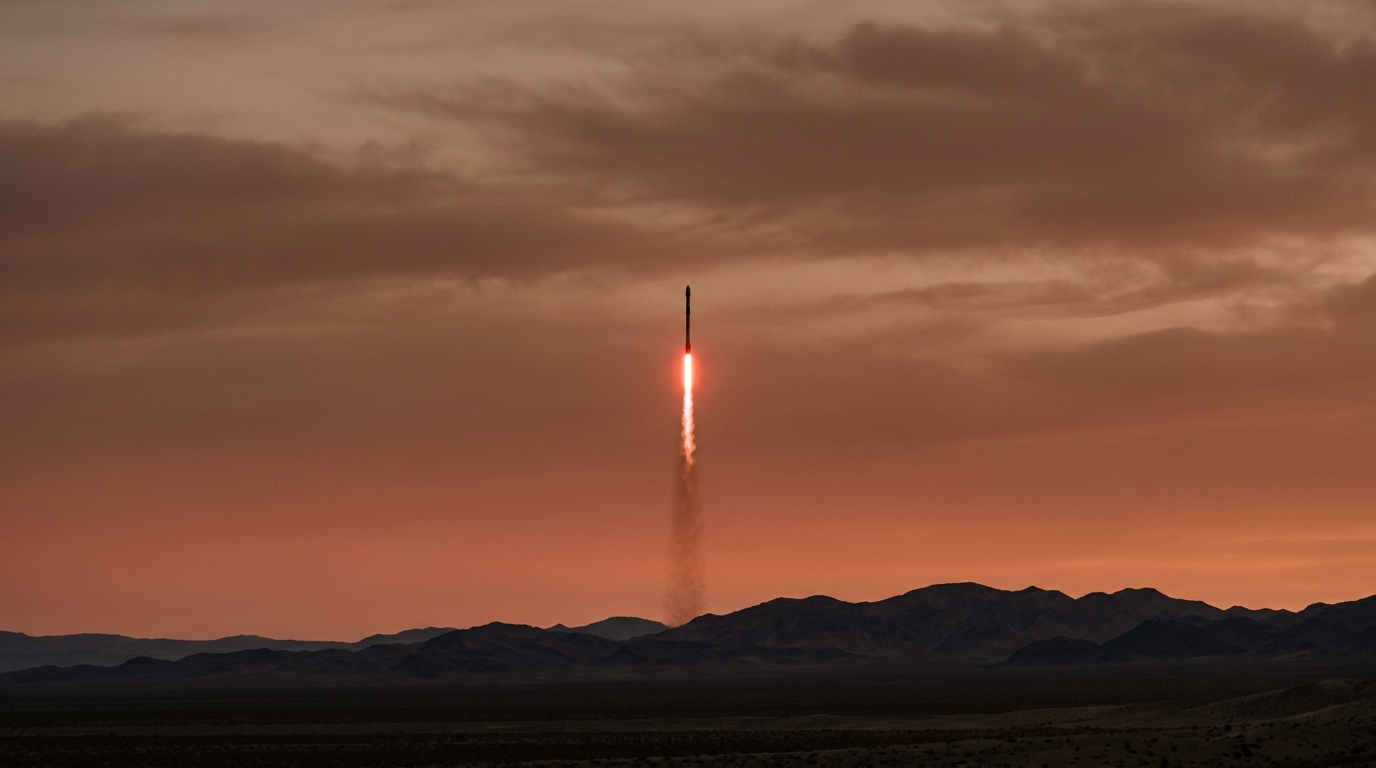
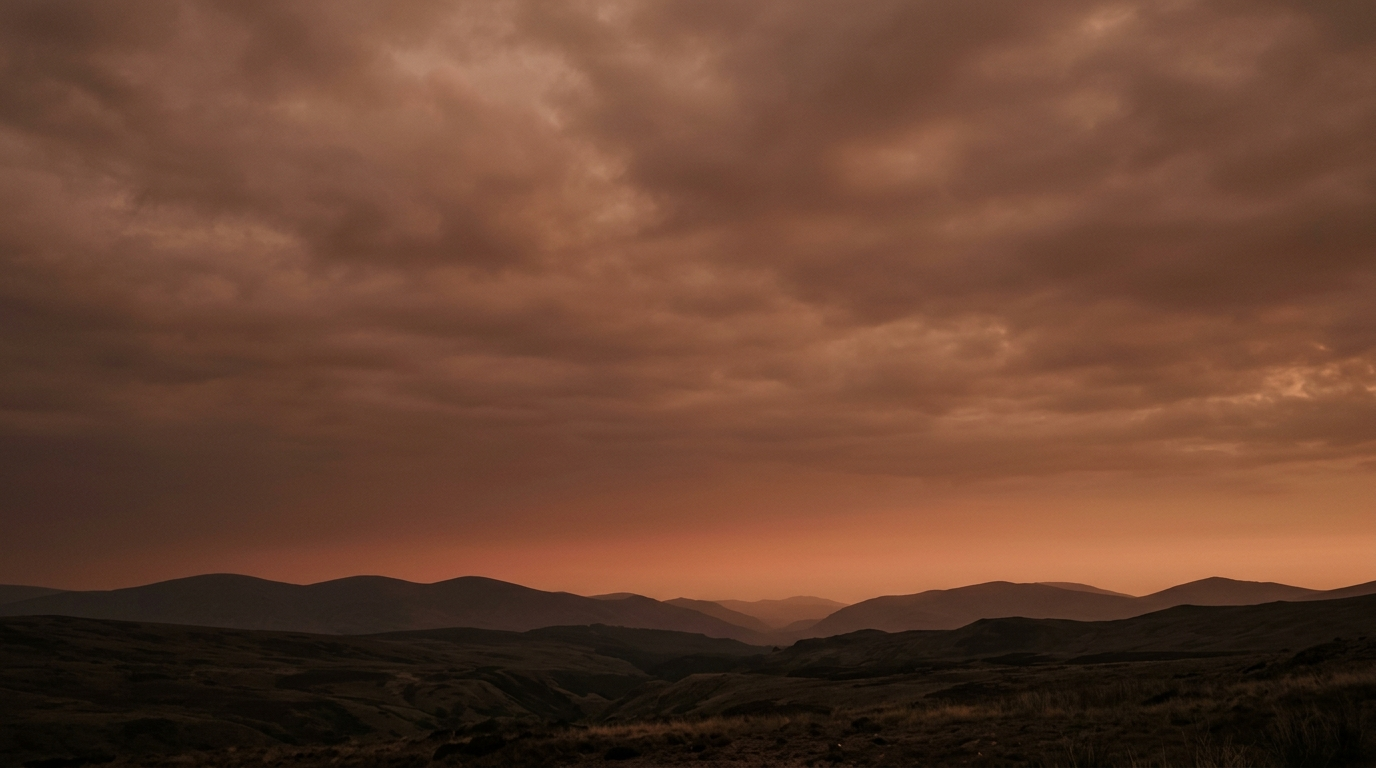
Replace background with clean empty dusk landscape and animate vector rocket on scroll

diff --git a/templates/landing.html b/templates/landing.html
@@ -21,7 +21,7 @@
     .hero-overlay-dark {
         position: absolute;
         inset: 0;
-        background: radial-gradient(circle at 50% 50%, rgba(0,0,0,0.1) 0%, rgba(18,16,16,0.65) 100%);
+        background: radial-gradient(circle at 50% 50%, rgba(0,0,0,0) 0%, rgba(18,16,16,0.55) 100%);
         z-index: 1;
         pointer-events: none;
     }
@@ -31,84 +31,11 @@
         bottom: 0;
         left: 0;
         right: 0;
-        height: 35vh;
-        background: linear-gradient(to top, rgba(18, 16, 16, 1) 0%, rgba(200, 50, 20, 0.35) 50%, rgba(18, 16, 16, 0) 100%);
+        height: 30vh;
+        background: linear-gradient(to top, rgba(18, 16, 16, 0.95) 0%, rgba(200, 50, 20, 0.3) 50%, rgba(18, 16, 16, 0) 100%);
         z-index: 2;
         pointer-events: none;
     }
-
-    /* SCENE LAYERS */
-    .scene-viewport {
-        position: absolute;
-        inset: 0;
-        z-index: 5;
-        display: flex;
-        flex-direction: column;
-        align-items: center;
-        justify-content: flex-end;
-    }
-
-    /* ROCKET ASSEMBLY */
-    .rocket-assembly {
-        position: absolute;
-        bottom: 70px;
-        left: 50%;
-        transform: translateX(-50%);
-        display: flex;
-        flex-direction: column;
-        align-items: center;
-        z-index: 10;
-        will-change: transform;
-    }
-
-    .rocket-ship {
-        width: 70px;
-        height: auto;
-        filter: drop-shadow(0 0 12px rgba(255, 85, 0, 0.4));
-        position: relative;
-        z-index: 12;
-    }
-
-    /* EXHAUST FLAME TRAIL */
-    .rocket-flame {
-        width: 24px;
-        height: 180px;
-        background: linear-gradient(to bottom, #FFFFFF 0%, #FFCC00 15%, #FF4500 45%, rgba(255, 69, 0, 0.8) 75%, rgba(255, 69, 0, 0) 100%);
-        border-radius: 50% 50% 20% 20%;
-        transform-origin: top center;
-        transform: scaleY(0);
-        opacity: 0;
-        filter: blur(2px) drop-shadow(0 0 25px #FF4500);
-        margin-top: -8px;
-        z-index: 11;
-        will-change: transform, opacity;
-    }
-
-    /* SMOKE PLUMES */
-    .launch-smoke-container {
-        position: absolute;
-        bottom: 50px;
-        left: 50%;
-        transform: translateX(-50%);
-        width: 300px;
-        height: 100px;
-        pointer-events: none;
-        z-index: 9;
-    }
-
-    .smoke-puff {
-        position: absolute;
-        background: radial-gradient(circle, rgba(220, 180, 160, 0.8) 0%, rgba(180, 80, 50, 0.4) 50%, rgba(18, 16, 16, 0) 70%);
-        border-radius: 50%;
-        transform: scale(0.2);
-        opacity: 0;
-        filter: blur(12px);
-        will-change: transform, opacity;
-    }
-
-    .smoke-1 { width: 140px; height: 140px; left: 10px; bottom: 0; }
-    .smoke-2 { width: 160px; height: 160px; right: 10px; bottom: 0; }
-    .smoke-3 { width: 180px; height: 180px; left: 60px; bottom: -20px; }
 
     /* LAUNCHPAD TOWER SILHOUETTE */
     .launchpad-tower {
@@ -116,56 +43,118 @@
         bottom: 40px;
         left: 50%;
         transform: translateX(-50%);
-        width: 140px;
-        height: 220px;
+        width: 180px;
+        height: 260px;
         z-index: 8;
-        opacity: 0.85;
+        opacity: 0.9;
     }
 
-    /* HERO TEXT STAGES */
+    /* ROCKET ASSEMBLY */
+    .rocket-assembly {
+        position: absolute;
+        bottom: 75px;
+        left: 50%;
+        transform: translateX(-50%);
+        display: flex;
+        flex-direction: column;
+        align-items: center;
+        z-index: 15;
+        will-change: transform;
+    }
+
+    .rocket-ship {
+        width: 90px;
+        height: auto;
+        filter: drop-shadow(0 0 20px rgba(255, 85, 0, 0.5));
+        position: relative;
+        z-index: 12;
+    }
+
+    /* EXHAUST FLAME TRAIL */
+    .rocket-flame {
+        width: 32px;
+        height: 240px;
+        background: linear-gradient(to bottom, #FFFFFF 0%, #FFCC00 15%, #FF4500 45%, rgba(255, 69, 0, 0.85) 75%, rgba(255, 69, 0, 0) 100%);
+        border-radius: 50% 50% 20% 20%;
+        transform-origin: top center;
+        transform: scaleY(0);
+        opacity: 0;
+        filter: blur(2px) drop-shadow(0 0 35px #FF4500);
+        margin-top: -10px;
+        z-index: 11;
+        will-change: transform, opacity;
+    }
+
+    /* SMOKE PLUMES */
+    .launch-smoke-container {
+        position: absolute;
+        bottom: 45px;
+        left: 50%;
+        transform: translateX(-50%);
+        width: 400px;
+        height: 120px;
+        pointer-events: none;
+        z-index: 9;
+    }
+
+    .smoke-puff {
+        position: absolute;
+        background: radial-gradient(circle, rgba(230, 190, 170, 0.85) 0%, rgba(190, 80, 40, 0.5) 50%, rgba(18, 16, 16, 0) 75%);
+        border-radius: 50%;
+        transform: scale(0.2);
+        opacity: 0;
+        filter: blur(15px);
+        will-change: transform, opacity;
+    }
+
+    .smoke-1 { width: 180px; height: 180px; left: 0; bottom: 0; }
+    .smoke-2 { width: 200px; height: 200px; right: 0; bottom: 0; }
+    .smoke-3 { width: 220px; height: 220px; left: 90px; bottom: -30px; }
+
+    /* HERO TEXT OVERLAY */
     .hero-stage-content {
         position: relative;
         z-index: 20;
         max-width: 900px;
         padding: 0 2rem;
         text-align: center;
-        margin-bottom: 25vh;
+        margin-bottom: 28vh;
     }
 
     .status-indicator-tag {
         display: inline-flex;
         align-items: center;
         gap: 0.6rem;
-        background: rgba(30, 25, 25, 0.75);
-        backdrop-filter: blur(14px);
-        border: 1px solid rgba(255, 85, 0, 0.3);
-        padding: 0.4rem 1.25rem;
+        background: rgba(25, 20, 20, 0.85);
+        backdrop-filter: blur(16px);
+        border: 1px solid rgba(255, 85, 0, 0.4);
+        padding: 0.5rem 1.35rem;
         border-radius: 999px;
         font-size: 0.85rem;
         font-weight: 600;
         color: #FF5500;
         letter-spacing: 0.08em;
         text-transform: uppercase;
-        margin-bottom: 1.75rem;
-        box-shadow: 0 0 20px rgba(255, 85, 0, 0.2);
+        margin-bottom: 2rem;
+        box-shadow: 0 0 25px rgba(255, 85, 0, 0.25);
     }
 
     .hero-stage-content h1 {
-        font-size: 5rem;
+        font-size: 5.25rem;
         line-height: 1.05;
         margin-bottom: 1.5rem;
-        letter-spacing: -0.03em;
-        text-shadow: 0 6px 35px rgba(0,0,0,0.9);
+        letter-spacing: -0.035em;
+        text-shadow: 0 6px 40px rgba(0,0,0,0.95);
         font-weight: 400;
     }
 
     .hero-stage-content p {
-        font-size: 1.2rem;
+        font-size: 1.25rem;
         color: rgba(255, 255, 255, 0.9);
         max-width: 580px;
         margin: 0 auto 2.5rem;
         line-height: 1.6;
-        text-shadow: 0 2px 12px rgba(0,0,0,0.8);
+        text-shadow: 0 2px 14px rgba(0,0,0,0.85);
     }
 
     .hero-ctas {
@@ -208,7 +197,7 @@
         transform: translateY(-2px);
     }
 
-    /* SCROLL HINT */
+    /* SCROLL PROMPT */
     .scroll-hint-indicator {
         position: absolute;
         bottom: 2rem;
@@ -219,16 +208,16 @@
         flex-direction: column;
         align-items: center;
         gap: 0.5rem;
-        color: rgba(255,255,255,0.6);
-        font-size: 0.75rem;
+        color: rgba(255,255,255,0.7);
+        font-size: 0.8rem;
         letter-spacing: 0.15em;
         text-transform: uppercase;
         animation: hintPulse 2s infinite;
     }
 
     @keyframes hintPulse {
-        0%, 100% { opacity: 0.4; transform: translate(-50%, 0); }
-        50% { opacity: 0.9; transform: translate(-50%, 6px); }
+        0%, 100% { opacity: 0.5; transform: translate(-50%, 0); }
+        50% { opacity: 1; transform: translate(-50%, 8px); }
     }
 
     @media (max-width: 768px) {
@@ -236,7 +225,7 @@
             font-size: 3.2rem;
         }
         .rocket-ship {
-            width: 50px;
+            width: 65px;
         }
     }
 </style>
@@ -248,10 +237,10 @@
         <div class="hero-overlay-dark"></div>
         <div class="hero-bottom-gradient"></div>
 
-        <!-- LAUNCHPAD STRUCTURE -->
+        <!-- LAUNCHPAD TOWER SILHOUETTE -->
         <svg class="launchpad-tower" viewBox="0 0 100 160" fill="none" xmlns="http://www.w3.org/2000/svg">
-            <path d="M30 160V40H35V160H30ZM65 160V40H70V160H65ZM35 50H65M35 70H65M35 90H65M35 110H65M35 130H65M35 150H65" stroke="rgba(255,255,255,0.3)" stroke-width="2"/>
-            <path d="M20 160H80" stroke="rgba(255,255,255,0.4)" stroke-width="3"/>
+            <path d="M30 160V30H35V160H30ZM65 160V30H70V160H65ZM35 40H65M35 60H65M35 80H65M35 100H65M35 120H65M35 140H65" stroke="rgba(255,255,255,0.35)" stroke-width="2"/>
+            <path d="M15 160H85" stroke="rgba(255,255,255,0.5)" stroke-width="4"/>
         </svg>
 
         <!-- SMOKE PLUMES -->
@@ -263,20 +252,20 @@
 
         <!-- ROCKET ASSEMBLY -->
         <div class="rocket-assembly" id="rocket-assembly">
-            <!-- Sleek Vector Rocket -->
+            <!-- Vector Rocket -->
             <svg class="rocket-ship" viewBox="0 0 60 120" fill="none" xmlns="http://www.w3.org/2000/svg">
                 <!-- Nose Cone -->
                 <path d="M30 0C30 0 45 25 45 45H15C15 25 30 0 30 0Z" fill="#F5F5F7"/>
                 <!-- Rocket Body -->
                 <rect x="16" y="45" width="28" height="50" rx="3" fill="#E1E1E6"/>
                 <!-- Dark Window / Accents -->
-                <circle cx="30" cy="58" r="6" fill="#121010" stroke="#FF5500" stroke-width="2"/>
+                <circle cx="30" cy="58" r="6" fill="#121010" stroke="#FF5500" stroke-width="2.5"/>
                 <path d="M16 80H44" stroke="#FF5500" stroke-width="3"/>
                 <!-- Fins -->
                 <path d="M16 70L2 100V105H16V70Z" fill="#C1C1C7"/>
                 <path d="M44 70L58 100V105H44V70Z" fill="#C1C1C7"/>
                 <!-- Engine Nozzle -->
-                <path d="M22 95H38L35 105H25L22 95Z" fill="#44444C"/>
+                <path d="M22 95H38L35 105H25L22 95Z" fill="#33333A"/>
             </svg>
             <!-- Exhaust Flame -->
             <div class="rocket-flame" id="rocket-flame"></div>
@@ -297,9 +286,9 @@
 
         <!-- SCROLL PROMPT -->
         <div class="scroll-hint-indicator" id="scroll-hint">
-            <span>Scroll to Launch</span>
-            <svg width="16" height="16" viewBox="0 0 24 24" fill="none" xmlns="http://www.w3.org/2000/svg">
-                <path d="M12 5V19M12 19L5 12M12 19L19 12" stroke="currentColor" stroke-width="2" stroke-linecap="round" stroke-linejoin="round"/>
+            <span>Scroll Down to Launch</span>
+            <svg width="18" height="18" viewBox="0 0 24 24" fill="none" xmlns="http://www.w3.org/2000/svg">
+                <path d="M12 5V19M12 19L5 12M12 19L19 12" stroke="currentColor" stroke-width="2.5" stroke-linecap="round" stroke-linejoin="round"/>
             </svg>
         </div>
     </main>
@@ -322,7 +311,7 @@
             scrollTrigger: {
                 trigger: "#scroll-hero-trigger",
                 start: "top top",
-                end: "+=2200",
+                end: "+=2400",
                 pin: true,
                 scrub: 1,
                 anticipatePin: 1
@@ -332,20 +321,20 @@
         // Step 1: Ignition & Smoke Billow (0% -> 20% scroll)
         tl.to(scrollHint, { opacity: 0, duration: 0.1 }, 0)
           .to(smokePuffs, {
-              scale: 2.5,
+              scale: 2.8,
               opacity: 0.95,
               stagger: 0.05,
-              duration: 0.3,
+              duration: 0.35,
               ease: "power1.out"
           }, 0)
           .to(flame, {
-              scaleY: 1,
+              scaleY: 1.2,
               opacity: 1,
-              duration: 0.25,
+              duration: 0.3,
               ease: "power2.out"
           }, 0.1)
           .to(rocket, {
-              x: "+=2",
+              x: "+=2.5",
               repeat: 5,
               yoyo: true,
               duration: 0.05
@@ -356,25 +345,25 @@
 
         // Step 2: Main Acceleration & Vertical Liftoff (20% -> 80% scroll)
         tl.to(rocket, {
-            y: -1100,
-            duration: 1.5,
+            y: -1300,
+            duration: 1.6,
             ease: "power2.in"
         }, 0.25)
         .to(flame, {
-            scaleY: 3.5,
-            opacity: 0.9,
-            duration: 1.2
+            scaleY: 4.2,
+            opacity: 0.95,
+            duration: 1.3
         }, 0.25)
         .to(smokePuffs, {
-            scale: 4.5,
+            scale: 5.0,
             opacity: 0,
-            y: 80,
-            duration: 1.0
+            y: 90,
+            duration: 1.1
         }, 0.3)
         .to(heroContent, {
-            y: -40,
+            y: -50,
             scale: 1.03,
-            duration: 1.0,
+            duration: 1.1,
             ease: "power1.out"
         }, 0.3);
 
